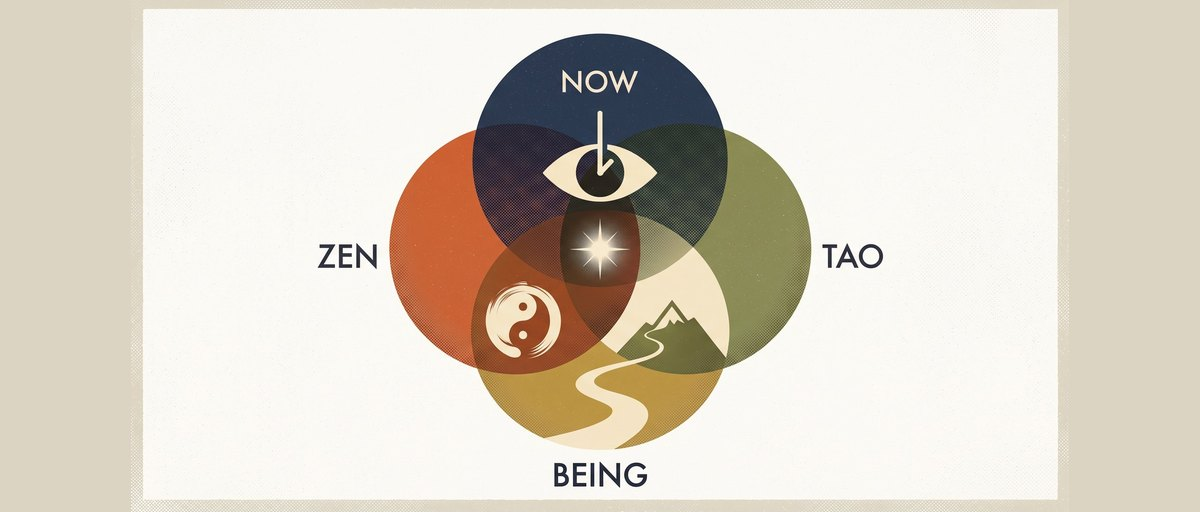
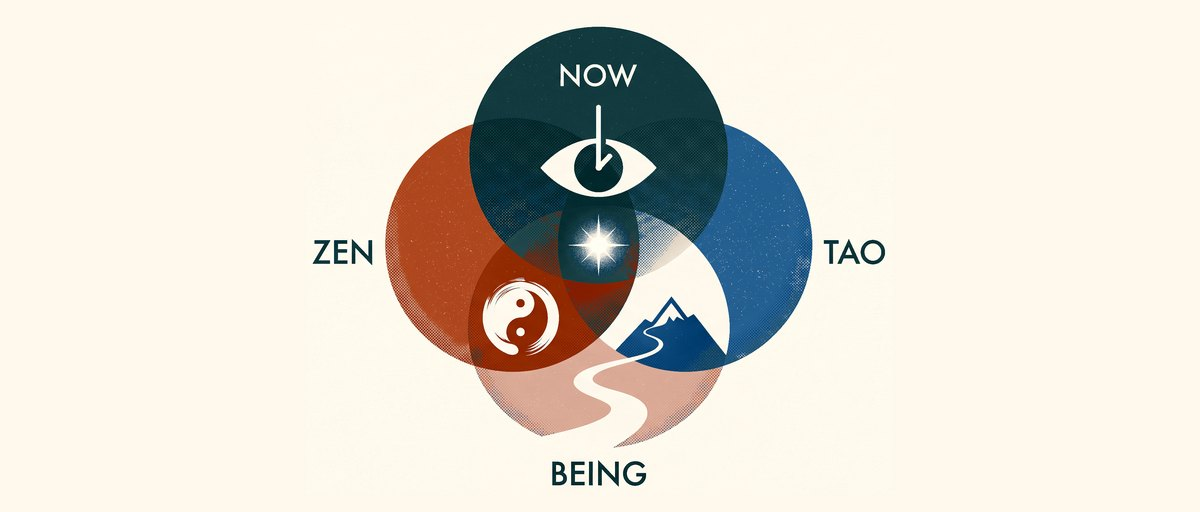
Watts cover: shift the diagram right, and put it on our palette
Two fixes to the one thing a learner saw go wrong — the 88px title
landing on the word ZEN.

Shifted: the diagram now sits in the right 42% at 780x632, its left edge
at x=1160 of 2000, which is exactly the 58% the cover lockup is capped
at. Title, subtitle, chips and Begin button now have clear cream.

Recoloured onto the deck's own tokens: NOW and every overlap to ink teal,
ZEN to brick red, TAO from olive to slate blue, BEING from gold to a
blush darkened enough to carry a circle, border and field to plate ground
and warm cream. The Forbes mark is now the same blue as the TAO circle,
which is the whole point — the diagram arrived in a different colour
family from everything else on the page.

Method, because it is reusable: k-means the non-field pixels to find the
real anchors (point-sampling misses regions, and a plain quantise is
swamped by the cream), map each pixel to its nearest anchor, then write
the target colour PLUS that pixel's luminance difference from its anchor.
The addition is what keeps the halftone — a straight substitution
flattens the illustration into vector shapes and it stops matching the
plates beside it.

No new artwork. Library card recut from the same recoloured diagram,
centred, because nothing is set over a card.

diff --git a/docs/ARTWORK-alan-watts.md b/docs/ARTWORK-alan-watts.md
@@ -24,13 +24,14 @@ on the comprehension run, which is about what *he* said.
 
 ---
 
-## Status — 18 pictures, one slot still open
+## Status — 19 pictures, all slots filled
 
 **Delivered 2026-09-22/23.** Nine object plates (`plate-a` … `plate-i`) were
 rendered to this brief and are live **alongside** the nine restored Watts
-portraits (`watts-a` … `watts-i`). Eighteen pictures across twenty-two
-art-bearing slides, so only three repeat — all three late in the sentence-building
-run, far enough from their first showing not to read as one.
+portraits (`watts-a` … `watts-i`), plus the recoloured hero. Eighteen framed
+pictures across twenty-two art-bearing slides, so only three repeat — all three
+late in the sentence-building run, far enough from their first showing not to
+read as one.
 
 **Seven objects came back native 7:6** (2368 × 2032) — the first time `--ar 7:6`
 has actually taken in this repo, and worth knowing it *can*. Two came back 16:9
@@ -47,19 +48,43 @@ sky above them and take the 190px arch well; the portraits are
 head-and-shoulders that fill the frame and come back with the hair cut off. One
 flag for the whole deck cannot express that, which is why it is a function.
 
-### Still outstanding: the hero
+### The hero — closed 2026-09-23, no new art
 
-Every framed slot is filled. **The cover is not**, and it is the one thing a
-learner sees go wrong: the hero is still the centred ZEN/TAO/NOW/BEING diagram,
-so the 88px title lands on the word ZEN.
+The cover was the one thing a learner saw go wrong: the diagram was centred, so
+the 88px title landed on the word ZEN. Fixed without commissioning anything.
 
-Two ways to close it, and the cheap one is probably right:
+**Shifted.** The diagram now sits in the right 42% at 780 × 632, its left edge
+at x=1160 of 2000 — **exactly the 58% the lockup is capped at**, so the title,
+subtitle, chips and Begin button have a clear cream field and nothing overlaps.
 
-1. **No new art.** Shift the existing diagram right so the left 58% is clear.
-   Crop-and-pad on a file already on disk.
-2. **Render the hero below**, and move the diagram onto the "Who was Alan
-   Watts?" slide as a `data-bg`, where nothing is set over it and it is allowed
-   to be centred.
+**Recoloured onto the deck's own tokens.** The supplied diagram was
+cream/terracotta/olive/gold with a navy top circle — a different colour family
+from everything else on the page. Each region was remapped:
+
+| in the diagram | was | is now |
+|---|---|---|
+| NOW circle, and every overlap | `#38373d` near-black | ink teal `#123a3e` |
+| ZEN circle | `#b25930` terracotta | brick red `#a33b12` |
+| TAO circle | `#838153` olive | slate blue `#1c5789` |
+| BEING circle | `#b99247` gold | mid blush `#d9a895` |
+| printed border | `#ded7c6` | plate ground `#f3ede0` |
+| field | `#faf8f3` | warm cream `#fff9ed` |
+
+Method, because it is reusable on any flat illustration that arrives off-brand:
+k-means the non-field pixels to find the real anchors (point-sampling misses
+regions and the cream swamps a plain quantise), map each pixel to its nearest
+anchor, then write the target colour **plus the pixel's luminance difference
+from its anchor**. The addition is what keeps the halftone and grain — a
+straight substitution flattens the picture into vector shapes and it stops
+matching the plates.
+
+`BEING` is the one invented value: the palette's blush `#f8dcd1` is far too
+light to carry a circle, so it is darkened to `#d9a895`, holding the hue. Four
+circles need four codes, which is also why the diagram carries more than the
+"one brick-red accent per picture" rule allows. A diagram is not a plate.
+
+The library card is cut from the same recoloured diagram, centred — nothing is
+set over a card, so it is allowed to be.
 
 ## The style stem
 
